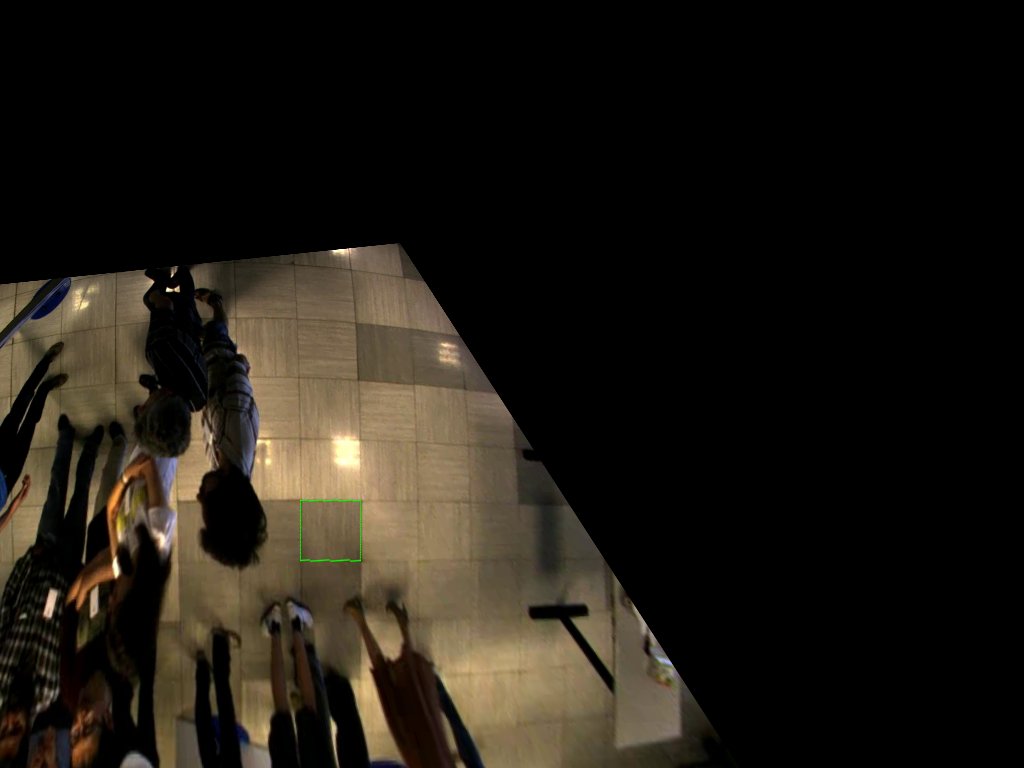
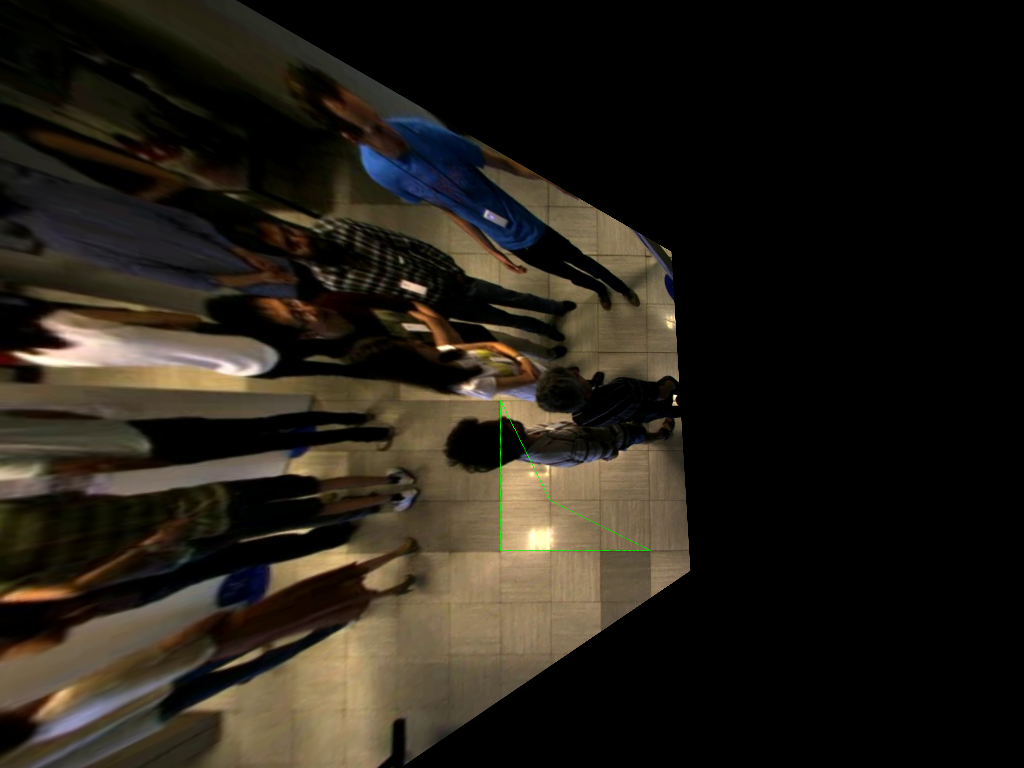
good homography

diff --git a/homography/homography.py b/homography/homography.py
@@ -3,16 +3,17 @@ import os
 from glob import glob
 import numpy as np
 
-frames = [cv2.imread(f'frame{i}.jpg') for i in range(1, 5)]
+frames = [cv2.imread(f'undis{i}.jpg') for i in range(1, 5)]
 
-pts_src1 = np.array([[433, 385], [501, 407], [453, 458],[382, 430]])
-pts_src2 = np.array([[464, 326], [471, 286], [545, 288],[544, 331]])
-pts_src3 = np.array([[359, 392], [274, 388], [298, 338],[376, 341]])
-pts_src4 = np.array([[552, 236], [514, 258], [465, 243],[501, 223]])
+pts_src1 = np.array([[614, 294], [581, 326],[503, 407], [313, 348], [478, 345]])
+pts_src2 = np.array([[250, 279], [324, 281],[472, 286], [440, 437], [383, 325]])
+pts_src3 = np.array([[127, 650], [186, 538], [265, 389],[542, 400], [333, 458]])
+pts_src4 = np.array([[704, 314], [635, 292], [515, 257],[615, 192], [607, 248]])
 
 source_points = [pts_src1, pts_src2, pts_src3, pts_src4]
 
-pts_dst = np.array([[300, 500], [360, 500], [360, 560],[300, 560]])
+#pts_dst = np.array([[750, 550], [650, 550], [450, 550],[450, 250], [550, 450]])
+pts_dst = np.array([[650, 550], [600, 550], [500, 550],[500, 400], [550, 500]])
 
 for i in range(len(frames)):
     frames[i] = cv2.polylines(frames[i], [source_points[i]], True, (0, 255, 0))
